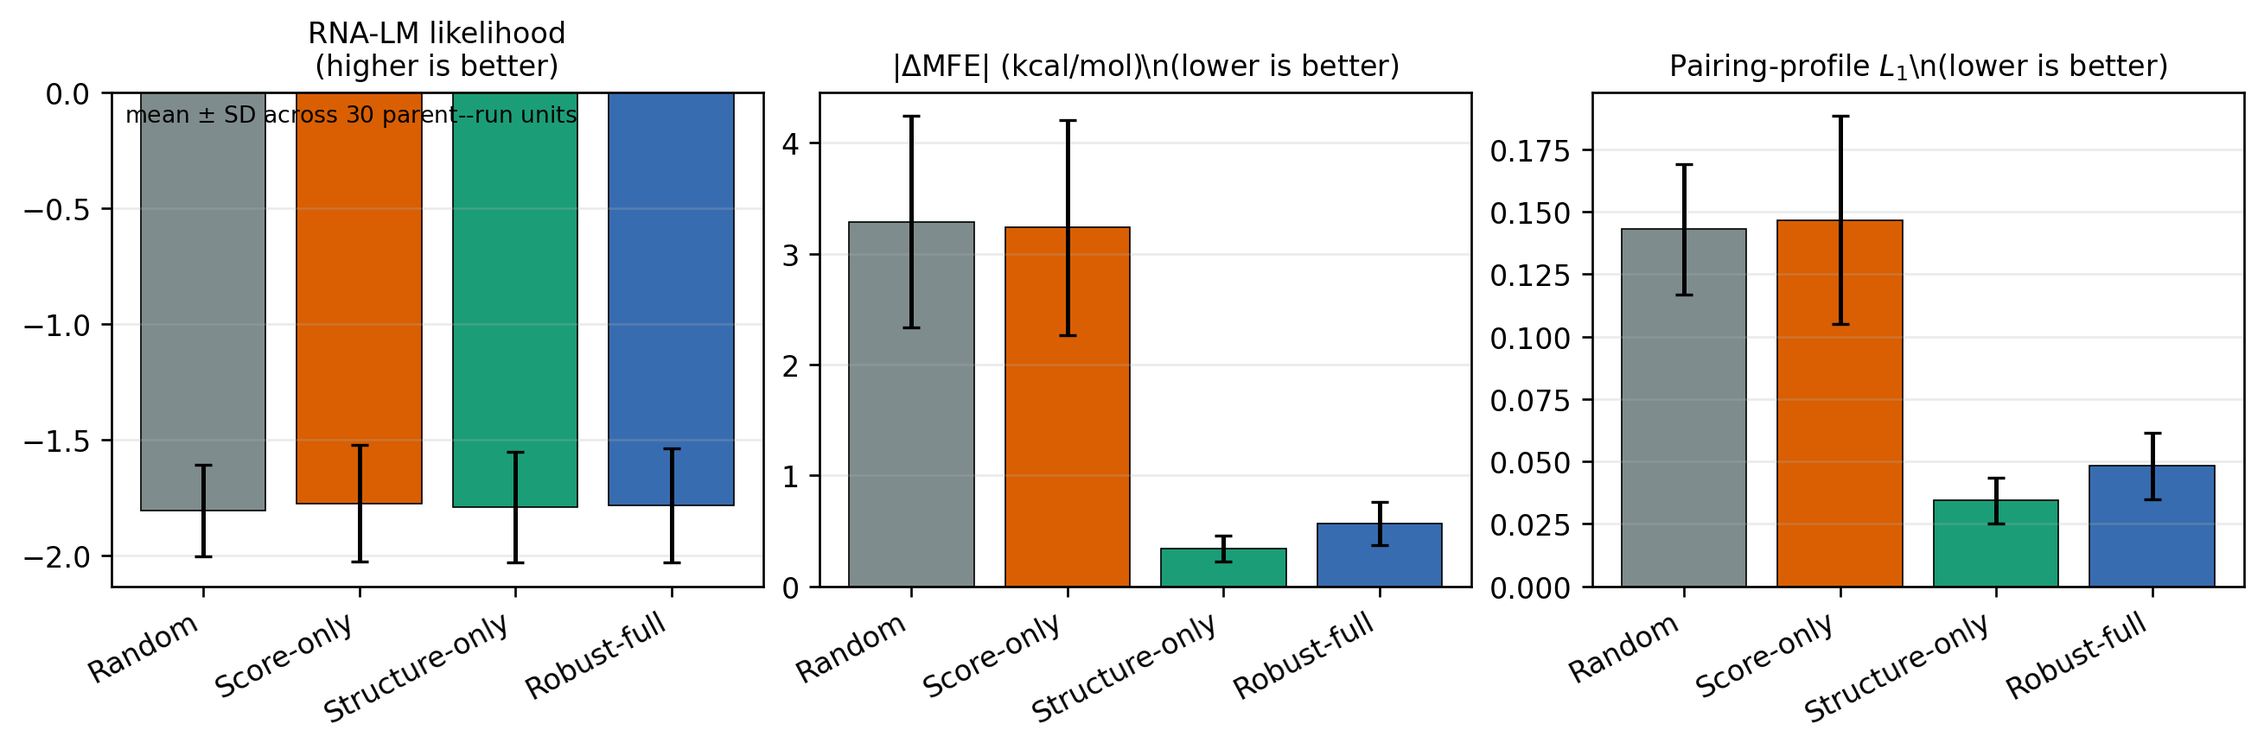
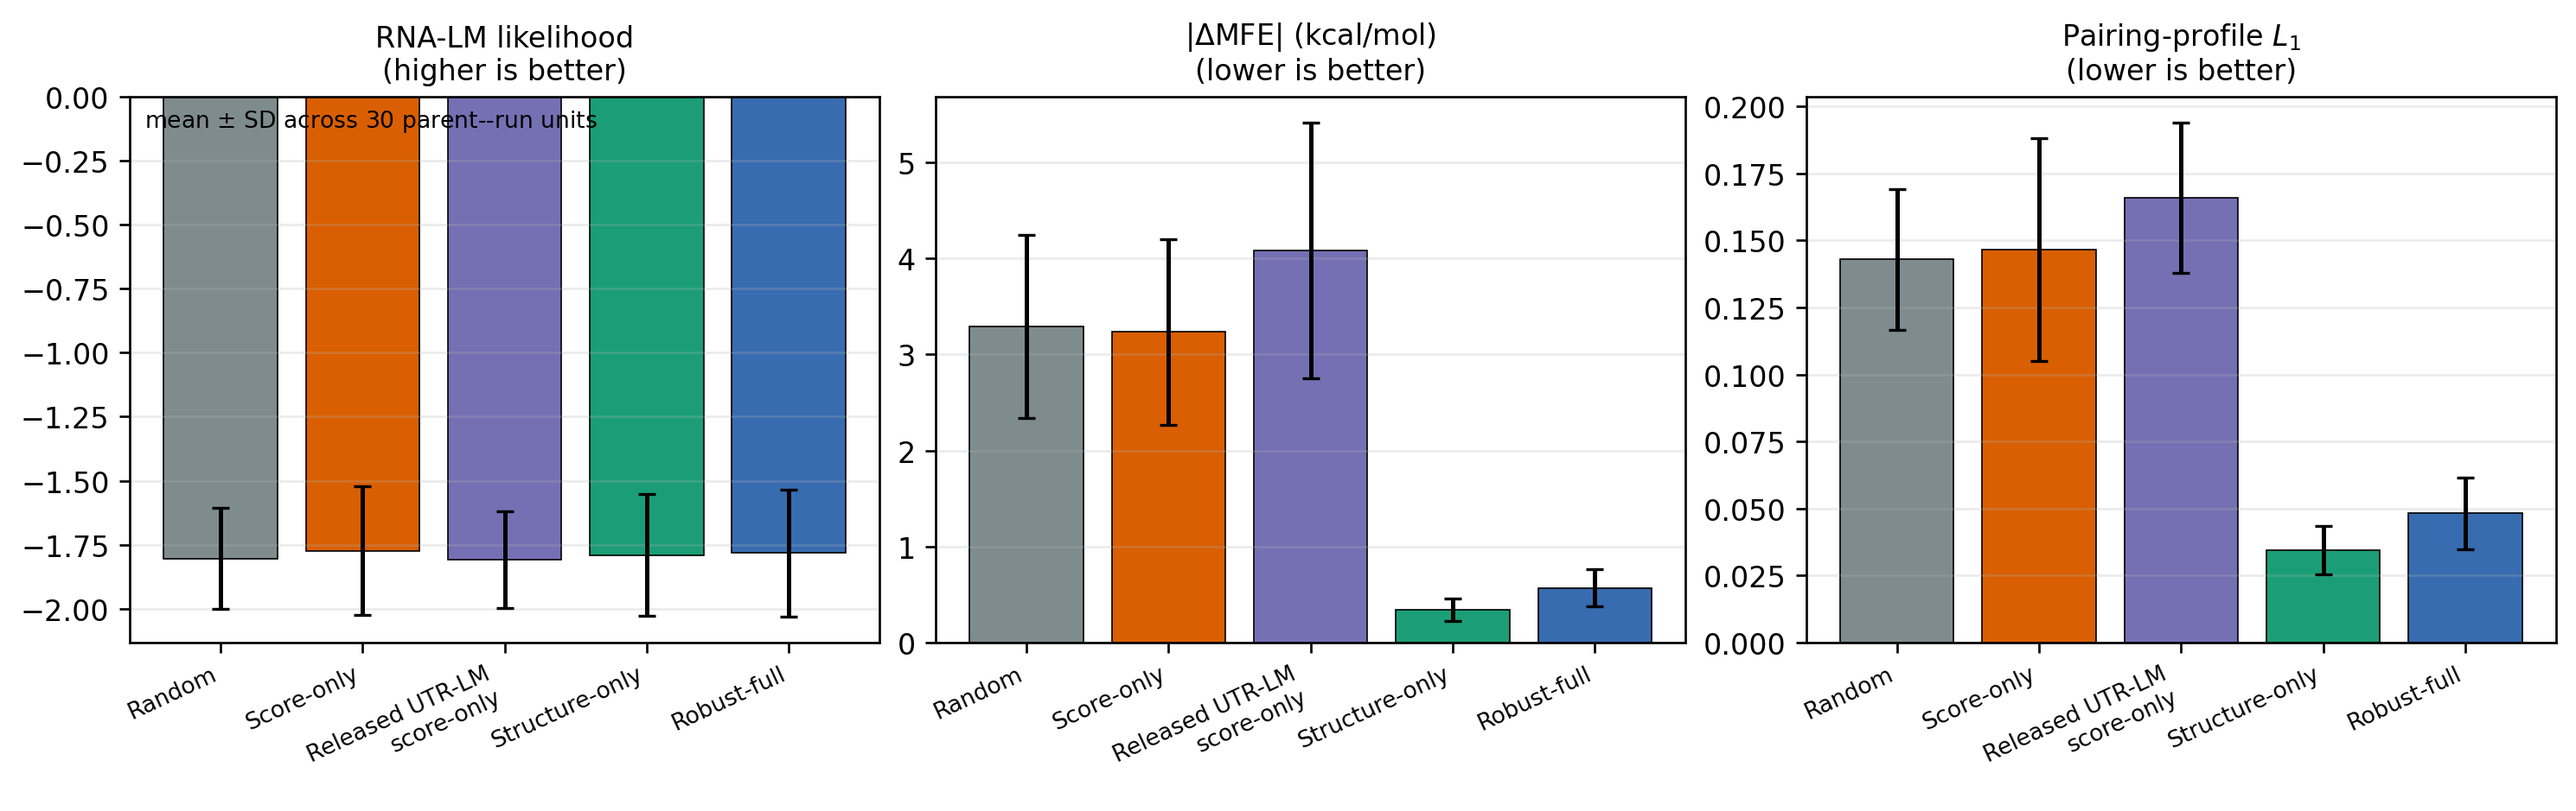
docs: plot released UTR-LM design baseline

diff --git a/scripts/make_seeded_design_figure.py b/scripts/make_seeded_design_figure.py
@@ -10,6 +10,7 @@ from pathlib import Path
 LABELS = {
     "random_mutation": "Random",
     "score_only": "Score-only",
+    "utrlm_score_only": "Released UTR-LM\nscore-only",
     "structure_only": "Structure-only",
     "robust_full_first_pass": "Robust-full",
 }
@@ -25,18 +26,18 @@ def main() -> int:
 
     with args.input.open(newline="", encoding="utf-8") as handle:
         rows = {row["method"]: row for row in csv.DictReader(handle)}
-    colors = ["#7f8c8d", "#d95f02", "#1b9e77", "#386cb0"]
+    colors = ["#7f8c8d", "#d95f02", "#7570b3", "#1b9e77", "#386cb0"]
     panels = [
         ("lm_log_likelihood_per_token", "RNA-LM likelihood\n(higher is better)"),
-        ("mfe_abs_delta_kcal_mol", r"$|\Delta$MFE| (kcal/mol)\n(lower is better)"),
-        ("pairing_profile_l1", r"Pairing-profile $L_1$\n(lower is better)"),
+        ("mfe_abs_delta_kcal_mol", "$|\\Delta$MFE| (kcal/mol)\n(lower is better)"),
+        ("pairing_profile_l1", "Pairing-profile $L_1$\n(lower is better)"),
     ]
-    fig, axes = plt.subplots(1, 3, figsize=(10.8, 3.5), constrained_layout=True)
+    fig, axes = plt.subplots(1, 3, figsize=(12.3, 3.8), constrained_layout=True)
     for axis, (metric, title) in zip(axes, panels):
         values = [float(rows[key][f"{metric}_mean"]) for key in ORDER]
         errors = [float(rows[key][f"{metric}_std"]) for key in ORDER]
-        axis.bar(range(4), values, yerr=errors, capsize=3, color=colors, edgecolor="black", linewidth=0.5)
-        axis.set_xticks(range(4), [LABELS[key] for key in ORDER], rotation=28, ha="right")
+        axis.bar(range(len(ORDER)), values, yerr=errors, capsize=3, color=colors, edgecolor="black", linewidth=0.5)
+        axis.set_xticks(range(len(ORDER)), [LABELS[key] for key in ORDER], rotation=25, ha="right", fontsize=8)
         axis.set_title(title, fontsize=10)
         axis.grid(axis="y", alpha=0.25)
     axes[0].text(0.02, 0.98, "mean $\\pm$ SD across 30 parent--run units", transform=axes[0].transAxes, va="top", fontsize=8)

diff --git a/paper/sections/results.tex b/paper/sections/results.tex
@@ -218,10 +218,10 @@ necessary before any functional claim.
   \centering
   \includegraphics[width=0.92\textwidth]{figures/fig5_seeded_design.pdf}
   \caption{Matched first-pass seeded design. All arms select from the same 512-candidate pool for
-  every parent and random seed. Score-only gains RNA-LM plausibility but has random-like structural
-  drift; robust-full retains substantially stronger energy and ensemble preservation while avoiding
-  the full plausibility loss of structure-only selection. Error bars are sample SD across 30
-  parent-by-run units. RNA-LM likelihood is not an activity measurement.}
+  every parent and random seed. The two score-only arms (local RNA-LM and released UTR-LM) display
+  substantially larger structural drift than robust-full; robust-full retains stronger energy and
+  ensemble preservation while avoiding the full plausibility loss of structure-only selection.
+  Error bars are sample SD across 30 parent-by-run units. Neither score is an activity measurement.}
   \label{fig:seeded-design}
 \end{figure*}
 
